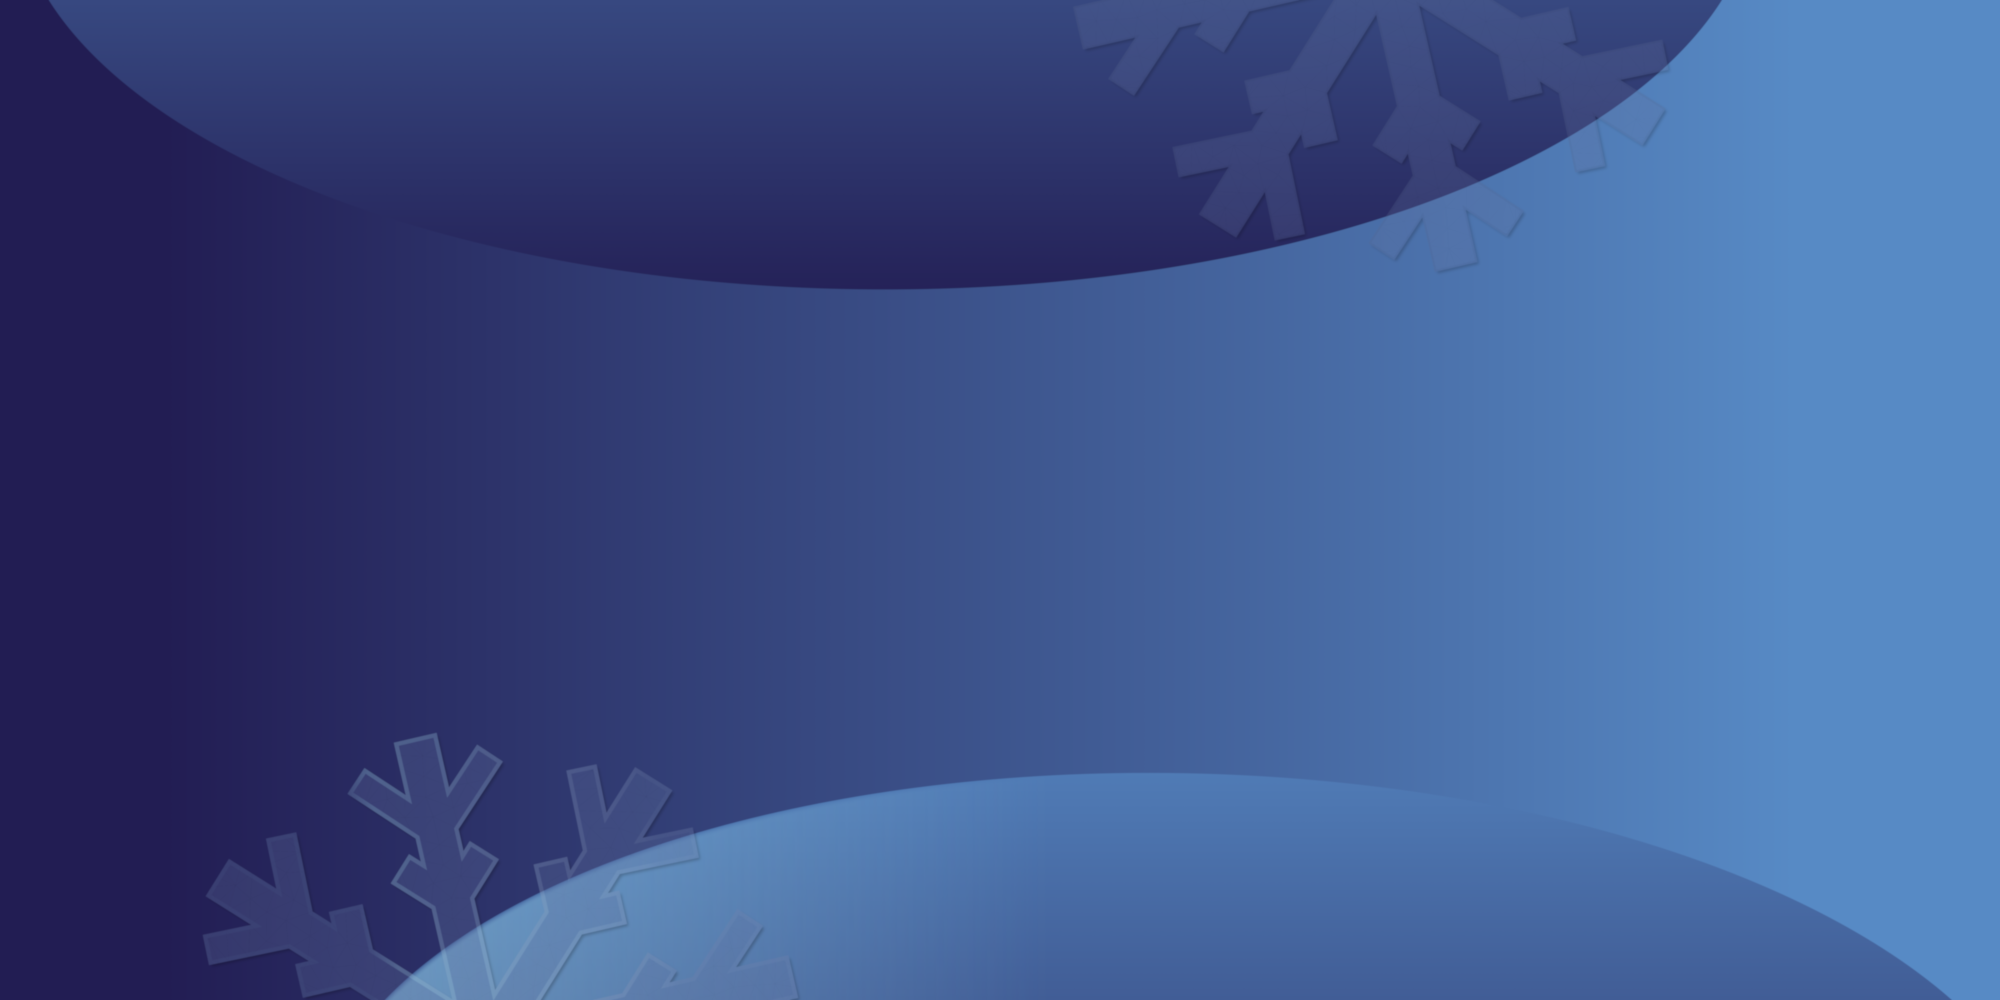
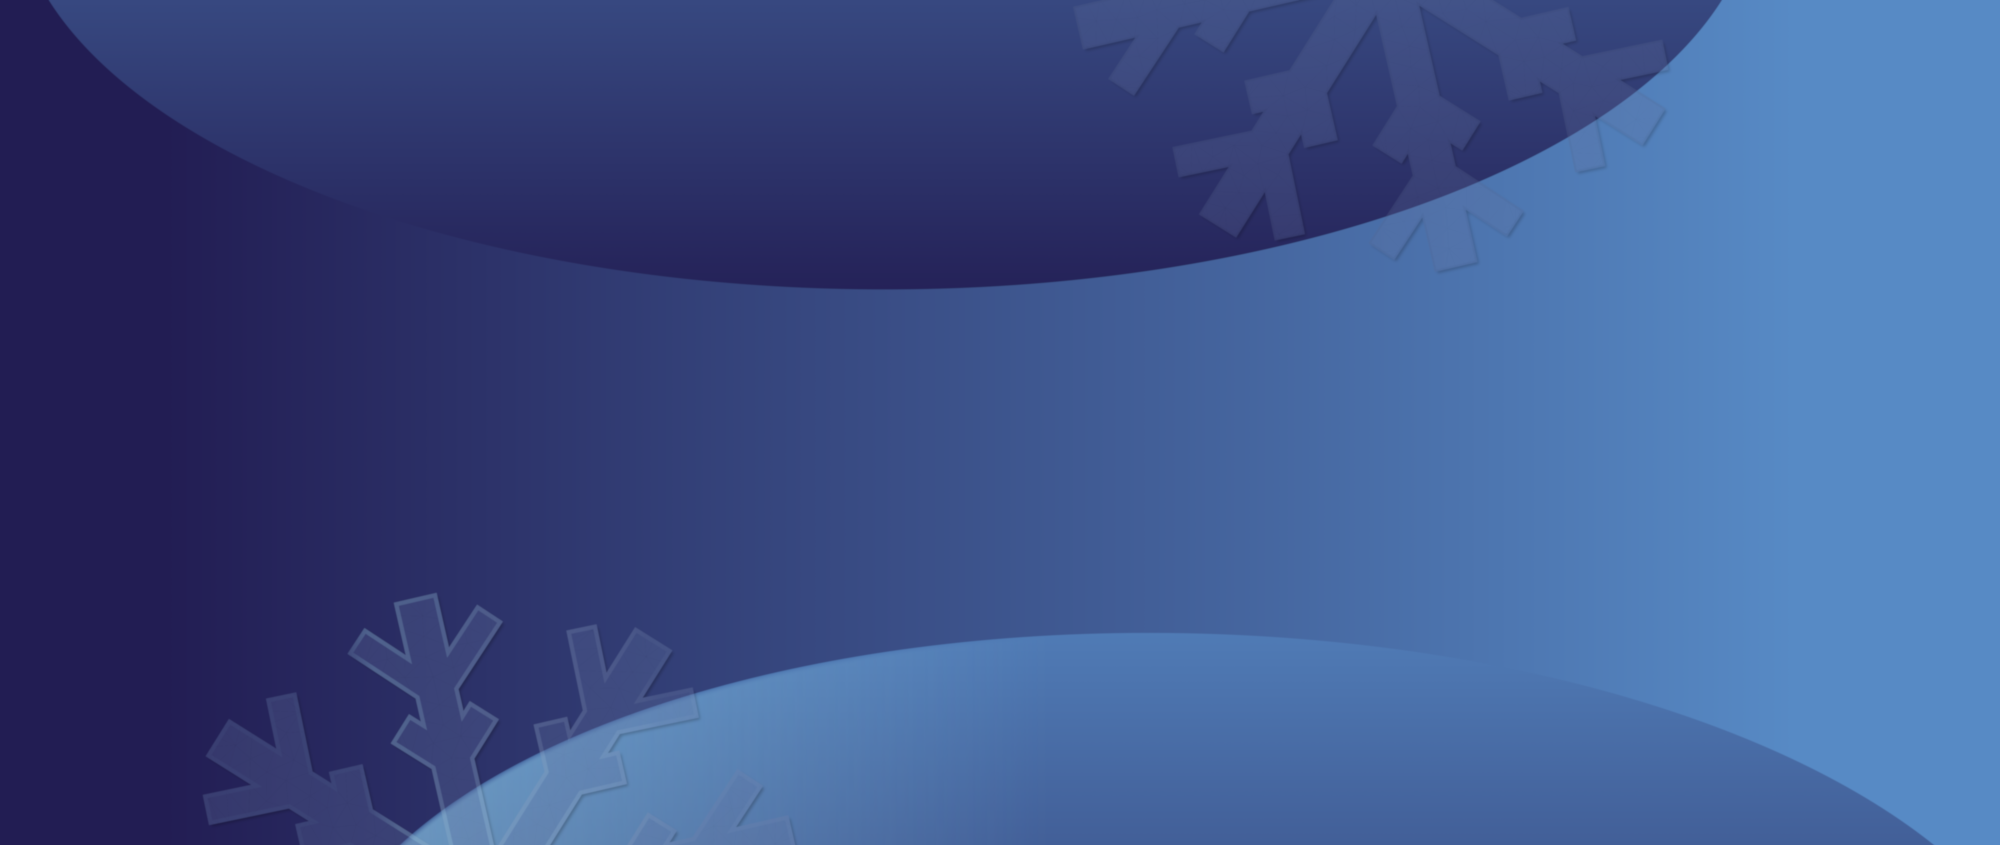
EXPO contact added

diff --git a/index.html b/index.html
@@ -252,7 +252,8 @@
 				
                 <br> 
 
-
+                   <a class="btn btn-primary text-uppercase" href="https://docs.google.com/forms/d/e/1FAIpQLSfUFWSieUDADEEVxJht-LdCfvL_Sj0-afgOw_vBp9ULgVdj9w/viewform?usp=dialog" target="_blank">Book a booth at EXPO 2027</a> 
+	 
             </div>             
         </section>         
         <!--hero section end-->    
